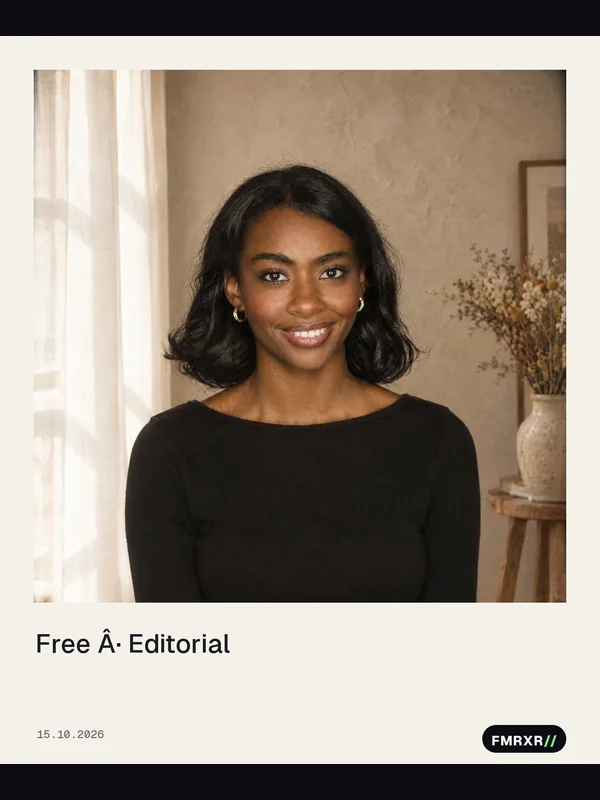
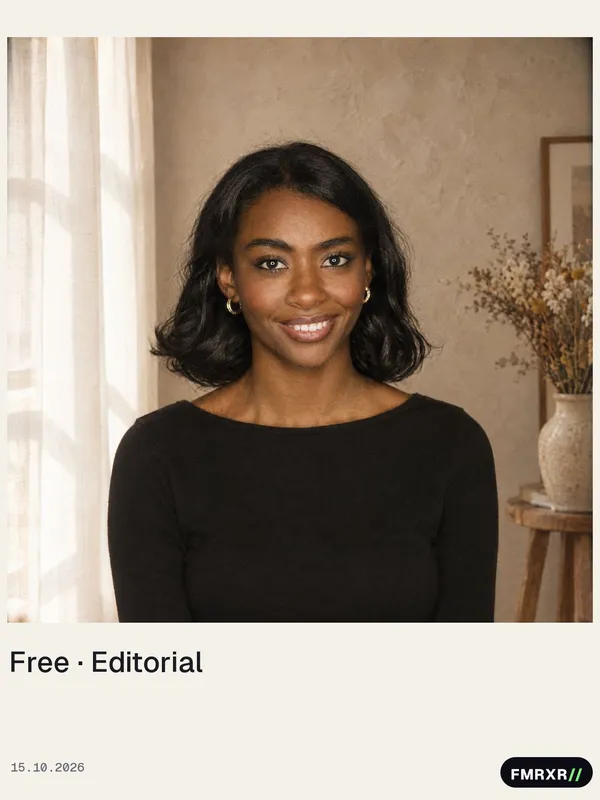
Photobooth : textes de vente et SEO de la page, FAQ, donnees structurees
- Styles Polaroid, magazine, affiche, carte : descriptions reecrites (FR,
  EN, AR) sur le benefice pour la marque et les termes recherches.
  « Polaroid » (marque deposee) devient « Photo instantanee », la
  description garde « facon Polaroid ».
- Page /photobooth : titre et description pour Google (AI photo booth,
  brand activation, magazine cover / movie poster / trading card photo
  booth), mots-cles, Open Graph et Twitter, accroche orientee benefice,
  appels a l'action « Get a quote for your event » et « See the 15 styles »,
  conclusion « Your brand, in every guest's camera roll ».
- FAQ des acheteurs (7 questions, uniquement ce que le logiciel fait) et
  donnees structurees FAQPage + Service.
- Image d'exemple du Polaroid recomposee (legende « Free Â· Editorial »
  d'une ancienne version), sans nouvelle generation.

diff --git a/src/app/(public)/photobooth/page.tsx b/src/app/(public)/photobooth/page.tsx
@@ -8,18 +8,49 @@ import { STYLE_IDS, STYLES } from "@/lib/photobooth/styles";
 // Nombre de styles calcule : la page suit la liste (styles.ts).
 const STYLE_COUNT = STYLE_IDS.length;
 
+// SEO : les termes que cherchent les organisateurs (AI photo booth, brand
+// activation, magazine cover / movie poster / trading card photo booth).
 export const metadata: Metadata = {
-  title: "AI Photobooth · Branded portraits for events",
+  title: "AI Photo Booth for Brand Activations & Events",
   description:
-    `FMRXR's AI Photobooth: software that runs on any existing photobooth or an iPhone, gesture-driven, a high-end portrait in under a minute. ${STYLE_COUNT} styles from editorial to tarot cards, your logo on every image, a team gallery, print and QR sharing, image quotas enforced per package.`,
+    `Turn any photobooth, or an iPhone, into an AI portrait studio for brand events. Gesture-controlled, your logo on every image, ${STYLE_COUNT} styles from magazine covers to movie posters and trading cards. Print, QR sharing, fixed packages.`,
+  keywords: [
+    "AI photo booth", "AI photobooth", "branded photo booth", "brand activation", "event photo booth",
+    "magazine cover photo booth", "movie poster photo booth", "trading card photo booth", "instant photo booth",
+    "AI portrait", "gesture photo booth", "photobooth Tunisia", "photobooth Paris", "FMRXR",
+  ],
   alternates: { canonical: "/photobooth" },
   openGraph: {
     type: "website",
     url: "/photobooth",
-    title: "AI Photobooth · FMRXR//",
-    description: "Branded AI portraits for events: gestures, styles, print, QR, package control.",
+    title: "AI Photo Booth for Brand Activations · FMRXR//",
+    description: "Your guests leave with a portrait signed by your brand, in under a minute. Works with the booth you already have.",
+  },
+  twitter: {
+    card: "summary_large_image",
+    title: "AI Photo Booth for Brand Activations · FMRXR//",
+    description: "Your guests leave with a portrait signed by your brand, in under a minute.",
   },
 };
+
+// Questions des acheteurs (FAQ visible + donnees structurees FAQPage).
+// Uniquement ce que le logiciel fait aujourd'hui.
+const FAQ: [string, string][] = [
+  ["Does it work with the photobooth we already have?",
+    "Yes. Any booth with a screen, a camera and a modern browser (Chrome, Edge or Safari) runs it from a link: kiosk, mirror booth, totem, tablet stand. An iPhone on the same Wi-Fi can also serve as the camera, no app to install."],
+  ["How long does a portrait take?",
+    "Under a minute from the photo to the finished portrait, shown on screen, downloadable by QR code and printable on site."],
+  ["Is our brand on every image?",
+    "Yes. Your official logo appears on the screen, the download, the shared page and the print, and the AI receives it as a reference so it never invents a fake brand mark. Styles, titles and texts are set for your campaign."],
+  ["Do guests still look like themselves?",
+    "In editorial styles, only the light, the set and the colour grade change: the face, the pose and the framing stay the guest's own. Transformation styles reinterpret the guest while keeping a recognisable likeness."],
+  ["What happens to guests' photos?",
+    "Gestures and expression are read on the device and never sent. Only the photo the guest confirms is sent to generate the portrait. Portraits stay available to the organiser for 7 days, and any portrait can be removed from the gallery in one tap."],
+  ["How is it priced?",
+    "Per event package: a number of portraits, a daily limit and a budget agreed in advance and enforced automatically. No surprise costs. Tell us your date and audience for a quote."],
+  ["Which languages do guests see?",
+    "French, English and Arabic, switchable on the booth."],
+];
 
 const STEPS: [string, string, BoothIconKind][] = [
   ["Learn by doing", "A ten-second tutorial on the live camera: raise a hand, hold it until the frame fills. Hand tracking runs on the device: nothing is sent.", "hand"],
@@ -60,17 +91,17 @@ export default function Photobooth() {
     <>
       <PageHero
         index="New · FMRXR Experience"
-        title="AI Photobooth"
-        intro="Your guests, portrayed by your brand. AI portrait software that turns any existing photobooth into a high-end portrait studio, driven by three gestures, built for brand activations, launches and festivals."
+        title="AI Photo Booth"
+        intro="Your guests leave with a portrait signed by your brand, in under a minute. FMRXR's AI photo booth turns the booth you already have, or an iPhone, into a portrait studio driven by gestures. Built for brand activations, product launches and festivals, and run under live conditions."
       />
 
       <section className="mx-auto flex max-w-[1200px] flex-wrap gap-3 px-5 md:px-8">
         <Link href="/start?ref=photobooth" data-cta="photobooth-page-start" className="rounded-full bg-fmfg px-6 py-3 text-sm font-semibold text-fmbg transition hover:bg-fmaccent">
-          Book it for your event
+          Get a quote for your event
         </Link>
-        <Link href="/experiences" data-cta="photobooth-page-experiences" className="rounded-full border border-fmborder px-6 py-3 text-sm text-fmfg/85 transition hover:border-fmfg/50">
-          Other experiences
-        </Link>
+        <a href="#styles" data-cta="photobooth-page-styles" className="rounded-full border border-fmborder px-6 py-3 text-sm text-fmfg/85 transition hover:border-fmfg/50">
+          See the {STYLE_COUNT} styles
+        </a>
       </section>
 
       {/* Le film de la borne (BRAND/Motion/fmrxr-photobooth-film) : la facilité,
@@ -120,7 +151,7 @@ export default function Photobooth() {
         </ol>
       </section>
 
-      <section className="mx-auto max-w-[1200px] border-t border-fmborder px-5 py-20 md:px-8 md:py-24">
+      <section id="styles" className="mx-auto max-w-[1200px] scroll-mt-24 border-t border-fmborder px-5 py-20 md:px-8 md:py-24">
         <p className="text-[11px] uppercase tracking-[0.15em] text-fmmuted">— Styles</p>
         <h2 className="fm-display mt-3 text-[clamp(1.8rem,4vw,3rem)] text-fmfg">{STYLE_COUNT} styles, activated per client</h2>
         <p className="fm-grotesk mt-4 max-w-2xl text-[15px] leading-relaxed text-fmfg/80">
@@ -178,13 +209,56 @@ export default function Photobooth() {
         </div>
       </section>
 
+      <section id="faq" className="mx-auto max-w-[1200px] border-t border-fmborder px-5 py-20 md:px-8 md:py-24">
+        <p className="text-[11px] uppercase tracking-[0.15em] text-fmmuted">— Questions</p>
+        <h2 className="fm-display mt-3 text-[clamp(1.8rem,4vw,3rem)] text-fmfg">What event teams ask us</h2>
+        <div className="mt-8 divide-y divide-fmborder overflow-hidden rounded-xl border border-fmborder">
+          {FAQ.map(([q, a]) => (
+            <details key={q} className="group bg-fmbg p-6">
+              <summary className="fm-display cursor-pointer list-none text-lg text-fmfg marker:hidden">
+                <span className="flex items-center justify-between gap-4">
+                  {q}
+                  <span aria-hidden className="text-fmaccent transition group-open:rotate-45">+</span>
+                </span>
+              </summary>
+              <p className="fm-grotesk mt-3 max-w-3xl text-[15px] leading-relaxed text-fmmuted">{a}</p>
+            </details>
+          ))}
+        </div>
+        {/* Donnees structurees : FAQ et service, pour les resultats enrichis de Google. */}
+        <script
+          type="application/ld+json"
+          dangerouslySetInnerHTML={{
+            __html: JSON.stringify([
+              {
+                "@context": "https://schema.org",
+                "@type": "FAQPage",
+                mainEntity: FAQ.map(([q, a]) => ({ "@type": "Question", name: q, acceptedAnswer: { "@type": "Answer", text: a } })),
+              },
+              {
+                "@context": "https://schema.org",
+                "@type": "Service",
+                name: "FMRXR AI Photo Booth",
+                serviceType: "AI photo booth for brand activations and events",
+                description: "AI portrait software for events: works with any photobooth or an iPhone, gesture-controlled, branded portraits in under a minute, print and QR sharing.",
+                url: "https://fmrxr.com/photobooth",
+                provider: { "@type": "Organization", name: "FMRXR Studio", url: "https://fmrxr.com" },
+                areaServed: ["Tunisia", "France", "Europe", "Middle East and North Africa"],
+                availableLanguage: ["French", "English", "Arabic"],
+              },
+            ]),
+          }}
+        />
+      </section>
+
       <section className="mx-auto max-w-[1200px] border-t border-fmborder px-5 py-24 text-center md:px-8 md:py-32">
-        <h2 className="fm-display text-[clamp(2rem,5vw,3.6rem)] text-fmfg">Bring it to your next event.</h2>
+        <h2 className="fm-display text-[clamp(2rem,5vw,3.6rem)] text-fmfg">Your brand, in every guest’s camera roll.</h2>
         <p className="fm-grotesk mx-auto mt-4 max-w-xl text-[15px] text-fmfg/80">
-          Tell us the date, the venue, the audience and the booth you use. We set up your styles, your package and your branding.
+          Send us the date, the venue, the audience and the booth you use. We set your styles, your package and your branding,
+          from brief to opening night.
         </p>
         <Link href="/start?ref=photobooth" data-cta="photobooth-page-bottom" className="mt-8 inline-block rounded-full bg-fmfg px-7 py-3.5 text-sm font-semibold text-fmbg transition hover:bg-fmaccent">
-          Start a project
+          Get a quote
         </Link>
       </section>
     </>

diff --git a/src/lib/photobooth/styles.ts b/src/lib/photobooth/styles.ts
@@ -53,29 +53,47 @@ export const STYLES: Record<StyleId, StyleDef> = {
   },
   polaroid: {
     id: "polaroid", family: "editorial", layout: "polaroid",
-    label: L("Polaroid", "Polaroid", "بولارويد"),
-    blurb: L("Instantané au cadre blanc, couleurs douces et flash.", "Instant photo in a white frame, soft colours and flash.", "صورة فورية بإطار أبيض."),
+    // « Polaroid » est une marque deposee : le style dit « photo instantanee »,
+    // et la description garde « facon Polaroid » (mention descriptive, utile au SEO).
+    label: L("Photo instantanée", "Instant photo", "صورة فورية"),
+    blurb: L(
+      "L'instantané façon Polaroid : cadre blanc, flash doux, signé de votre marque. Fait pour être imprimé, épinglé et posté.",
+      "The Polaroid-style instant print: white frame, soft flash, signed with your brand. Made to be printed, pinned and posted.",
+      "صورة فورية على طريقة بولارويد: إطار أبيض وفلاش ناعم وتوقيع علامتك. لتُطبع وتُعلّق وتُنشر.",
+    ),
     finish: "instant film photograph: on-camera flash look, soft faded instant-film colours, fine grain, slight vignette",
     extra: "Keep the face well inside the centre of the frame.",
   },
   magazine: {
     id: "magazine", family: "editorial", layout: "magazine",
-    label: L("Couverture magazine", "Magazine cover", "غلاف مجلة"),
-    blurb: L("Votre portrait en une, titre et accroches compris.", "Your portrait on the cover, masthead and lines included.", "صورتك على غلاف مجلة."),
+    label: L("Couverture de magazine", "Magazine cover", "غلاف مجلة"),
+    blurb: L(
+      "Chaque invité en couverture du magazine de votre marque : titre, accroches et date posés par nous, jamais inventés par l'IA.",
+      "Every guest on the cover of your brand's magazine: masthead, cover lines and date set by us, never invented by the AI.",
+      "كل ضيف على غلاف مجلة علامتك: العنوان والعبارات والتاريخ من تصميمنا، لا من اختراع الذكاء الاصطناعي.",
+    ),
     treatment: "a fashion magazine cover photograph",
     extra: "Leave calm, uncluttered background space in the top fifth of the image for the magazine title. No text in the image.",
   },
   poster: {
     id: "poster", family: "editorial", layout: "poster",
     label: L("Affiche de film", "Movie poster", "ملصق فيلم"),
-    blurb: L("L'affiche du film dont vous êtes le personnage.", "The poster of the film you star in.", "ملصق فيلم أنت بطله."),
+    blurb: L(
+      "Votre invité en tête d'affiche du film de la soirée : key art de cinéma, titre et générique à vos couleurs.",
+      "Your guest headlines the film of the night: cinema key art, title and credits in your colours.",
+      "ضيفك بطل فيلم السهرة: ملصق سينمائي بعنوان وأسماء بألوان علامتك.",
+    ),
     treatment: "the key art photograph of a feature film poster",
     extra: "Let the lower quarter of the image fall into dark, calm shadow for the film title. No text in the image.",
   },
   card: {
     id: "card", family: "editorial", layout: "card",
     label: L("Carte à collectionner", "Collectible card", "بطاقة للجمع"),
-    blurb: L("Une carte de jeu vintage numérotée 1/1, dans son boîtier de gradation.", "A vintage trading card numbered 1/1, in its graded case.", "بطاقة لعب كلاسيكية مرقّمة 1/1 في علبة تقييمها."),
+    blurb: L(
+      "Une carte 1/1 dans son boîtier gradé, statistiques tirées des réponses de l'invité. Faite pour être collectionnée et partagée.",
+      "A 1/1 trading card in a graded case, its stats drawn from the guest's answers. Built to be collected and shared.",
+      "بطاقة فريدة 1/1 في علبة مُقيَّمة، بإحصاءات من إجابات الضيف. لتُجمع وتُشارك.",
+    ),
     treatment: "a dynamic, high-energy portrait for a premium collectible card",
     extra: "Keep the face and shoulders centred with some space on all sides. No text in the image.",
   },
